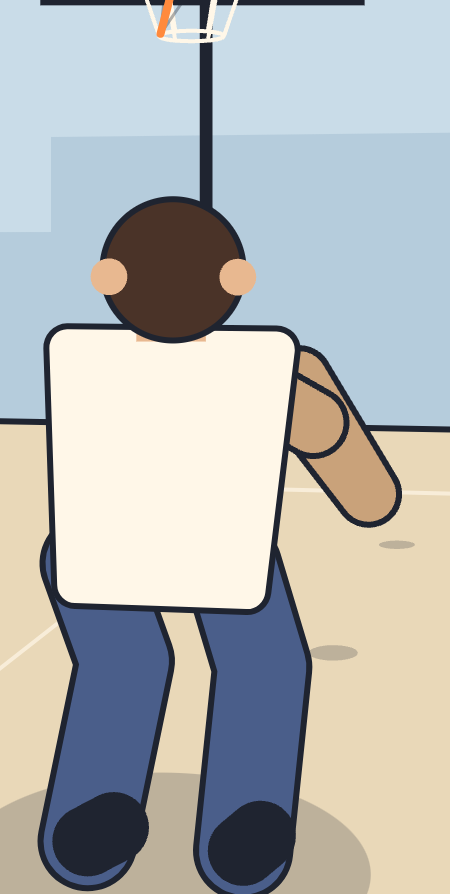
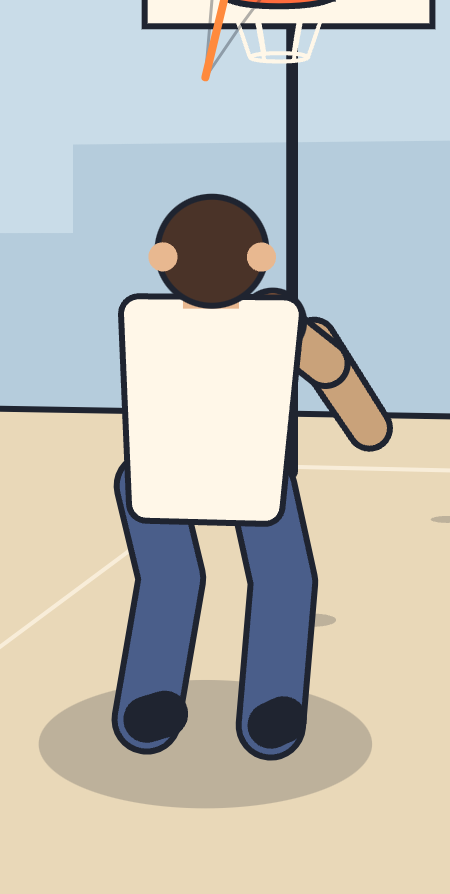
docs: fourth phone test decisions, money rule, hit feedback; screenshots

diff --git a/docs/design-rules.md b/docs/design-rules.md
@@ -50,7 +50,7 @@ Tokens (to be copied into the theme file when code starts). Names describe the j
 | `sky` | `#C9DCE8` | the default world background top |
 | `haze` | `#A9C2D4` | silhouettes in the far background |
 | `accent` | `#FF8A3D` | the one action button, the aiming line, "you should press this" |
-| `cash` | `#FFC83D` | money and only money |
+| `cash` | `#FFC83D` | the "NEW!" tag and the display lettering's fill; money itself is the green coin (`good`) with plain digits, owner 2026-11-19 |
 | `good` | `#5CC96A` | a hit, a success toast, a maxed bar |
 | `bad` | `#E8564B` | a miss marker, a destructive confirmation |
 | `arm` | `#B07CF0` | reserved: anything about characters and arms, so the reveal has its own color |
@@ -79,6 +79,7 @@ Rules:
 - **Display:** Lilita One (SIL Open Font License, free). Used for: sport names, "NEW!", the round result number, the price on a button. Always with an `ink` outline (text stroke 2 px, or a duplicated layer offset by 1 px in four directions), always short, never a sentence.
 - **Interface:** Nunito (Open Font License). Weights: 700 for labels and numbers, 600 for body. No other weights.
 - Numbers that change every frame (money during a round) sit left-aligned in a fixed-width box, so the text does not jump when digits change. Nunito has tabular figures; use them.
+- **Money is never display lettering** (owner 2026-11-19: "the 3D money font is not good; a green money icon and the numbers like a normal mobile game"). Everywhere money appears it is the green coin (`src/ui/money.tsx`: `good` disc, ink outline, dollar sign) followed by plain bold Nunito digits: the pill, prices on buttons, the round's result, the shop. Display lettering is for sport names and "NEW!" only.
 - ALL CAPS only in the display font, and only for one or two words. Labels and body are sentence case.
 - Minimum sizes: 14 pt body, 16 pt labels on buttons, 28 pt display. Nothing on screen is smaller than 12 pt, ever, including the pips' tiny numbers, which do not exist.
 - No Inter, Roboto, Poppins, Montserrat, SF Pro or system default anywhere. If a font is not installed, the screen is not finished.
@@ -92,9 +93,9 @@ Rules:
 - The play field fills the **whole screen**, seen **from behind the character** (owner decision 2026-11-16, like the first reference). The camera stands behind the character's right shoulder and looks at the target: the target sits on the screen's center line, the character stands **left of center** with its back to the player and takes a little under half the height, its legs run under the cards. From dead behind, the shooting hand hid behind the head and the ball's arc was a vertical line; the shoulder view (first screenshots, 2026-11-16) shows both. The camera never moves. Numbers in `src/features/play/camera.ts`.
 - Money sits top center in a `paper` pill with an `ink` outline. Nothing else is in the top bar during a round. Settings is a small ghost button top right.
 - The upgrade cards sit over the bottom 30%: three cards, equal width, each with name, icon, pips, and one button that shows the price. **The cards exist only between rounds** (owner decision 2026-11-16): they slide away when a round starts and come back when it ends. Buying happens only between rounds (owner decision 2026-11-15); the buttons stay disabled during a round as a second guard. The button is `paper2` and flat when unaffordable, and filled when it can be pressed.
-- Between rounds **one play button** stands centered above the cards. After a round the money it made stands over the button in display lettering, "NEW!" beside it on a best round, the commentator's line under it. **No panel, no card** (owner decision 2026-11-16): the character stopping is the signal that the round is over.
+- Between rounds **one play button** stands centered above the cards. After a round the money it made stands over the button as the coin and digits in a pill, "NEW!" beside it on a best round, the commentator's line under it. **No panel, no card** (owner decision 2026-11-16): the character stopping is the signal that the round is over.
 - Empty space is allowed and wanted. If a screen feels empty, that is the background's job to fix with haze, not the interface's job to fix with widgets.
-- Every screen has **one odd choice**: something off-grid, oversized or tilted that a template would not do. On the play screen it is the character cut by the left edge and the bottom, a big back in the foreground against a small basket, with the round's money tilted 4 degrees over the button. The "NEW!" tag hangs crooked beside it. One per screen, never three.
+- Every screen has **one odd choice**: something off-grid, oversized or tilted that a template would not do. On the play screen it is the character cut by the bottom edge, a back in the foreground against a small basket, and the "NEW!" tag hanging crooked beside the round's money. One per screen, never three.
 
 **Why:** generated layouts center everything and fill every gap, because that is the average of all layouts. This screen does center its button, because the owner wants the thumb to find it without looking, and the camera behind the character makes the center the natural line of play. So the deliberate choice moved from position to scale. The "one odd choice" rule forces a decision on every screen; a decision is exactly what slop lacks.
 
@@ -135,7 +136,7 @@ Everything the player does gets a reaction within 100 ms. Everything the game do
 | Press a button | scales to 0.96 | 90 ms down, 160 ms up, spring with slight overshoot |
 | Drag the aim line | the perfect arc follows the finger with no smoothing; the two spread arcs follow | immediate |
 | Ball leaves the hand | ball stretches 1.15 along the direction of travel for 2 frames | 40 ms |
-| Hit | target reacts (net swish, flag wobble, net bulge), ball squashes 0.8, `+$` text flies up and fades, coin pops toward the money pill | reaction 200 ms, text 500 ms |
+| Hit | the net swishes (350 ms), a ring spreads from the rim and fades (300 ms), a green coin pops up from the hoop and shrinks away (600 ms), the money pill pops 1.12 (owner 2026-11-19: "no feedback when a ball goes through") | as listed |
 | Miss | ball bounces with correct physics, a small dust puff where it lands, no text | physics |
 | Round starts | the cards slide down out of the way; the play button fades | 280 ms, ease-out |
 | Round ends | the character stops; the cards slide back; the money, the line and the play button rise 24 pt and fade in above them | 280 ms, ease-out, no bounce |

diff --git a/docs/decisions.md b/docs/decisions.md
@@ -109,3 +109,11 @@ Verified on the owner's phone before this change: balls visible with outlines (f
 | The cycle is **squeezed into the fire period** when shots come faster than 0.95 s apart. | A fast arm must pump, not freeze or skip the dip. The release always sits at the engine's fire time. |
 | The hold is the ball at the chin with elbows out; the torso is a trapezoid that leans into the dip. | From behind, a ball held at the chest hides behind the back; at the chin the forearms show beside the torso and the dip reads. |
 | Still open for the owner to judge from the screenshots and the next phone test: whether the code character is good enough or body parts should be commissioned (plan step 4 of 2026-11-16). | The rig stays either way; an artist would replace the shapes, not the motion. |
+
+## 2026-11-19, fourth phone test (owner)
+
+| Decision | Reason / note |
+|---|---|
+| **Hit feedback.** Net swish, a ring spreading from the rim, a green coin popping up from the hoop, the money pill popping. | Owner: "no feedback when a ball goes through the ring". Per design rules section 9; sound still missing. |
+| **Smaller, slimmer character.** Camera 3.8 m back (was 3.0), torso 0.26 m wide (was 0.30), thinner arms and legs, smaller head. | Owner: "too big and too fat". |
+| **Money as a green coin and plain digits**, never display lettering: pill, prices on buttons, round result, shop, offline panel. `cash` yellow stays for "NEW!" only. | Owner: "the 3D money font or style is not good; a green money icon that makes sense and the numbers like a normal mobile game". |

diff --git a/docs/STATUS.md b/docs/STATUS.md
@@ -21,6 +21,7 @@ Where the project stands and what comes next. Updated 2026-11-16.
 - Screenshot tool (`npm run screenshot`): exports the web build, opens it in headless Chrome at phone size and writes PNGs of idle,
   aiming, the first shots, mid-round and the result. The lead now sees the game before the owner does. The web build runs the real app
   (CanvasKit for Skia, localStorage for the save).
+- Hit feedback (2026-11-19): net swish, rim ring, coin pop and the money pill's pop. Money everywhere as the green coin plus digits.
 - Phone tests: 2026-11-15 (aiming and shooting work; balls were invisible, fixed), 2026-11-16 morning (balls visible; the owner asked
   for the third-person view and the new round flow, both built the same day), 2026-11-16 afternoon (third-person works; basket too hard
   to hit, aim line wanted as the flight arc; both done).
